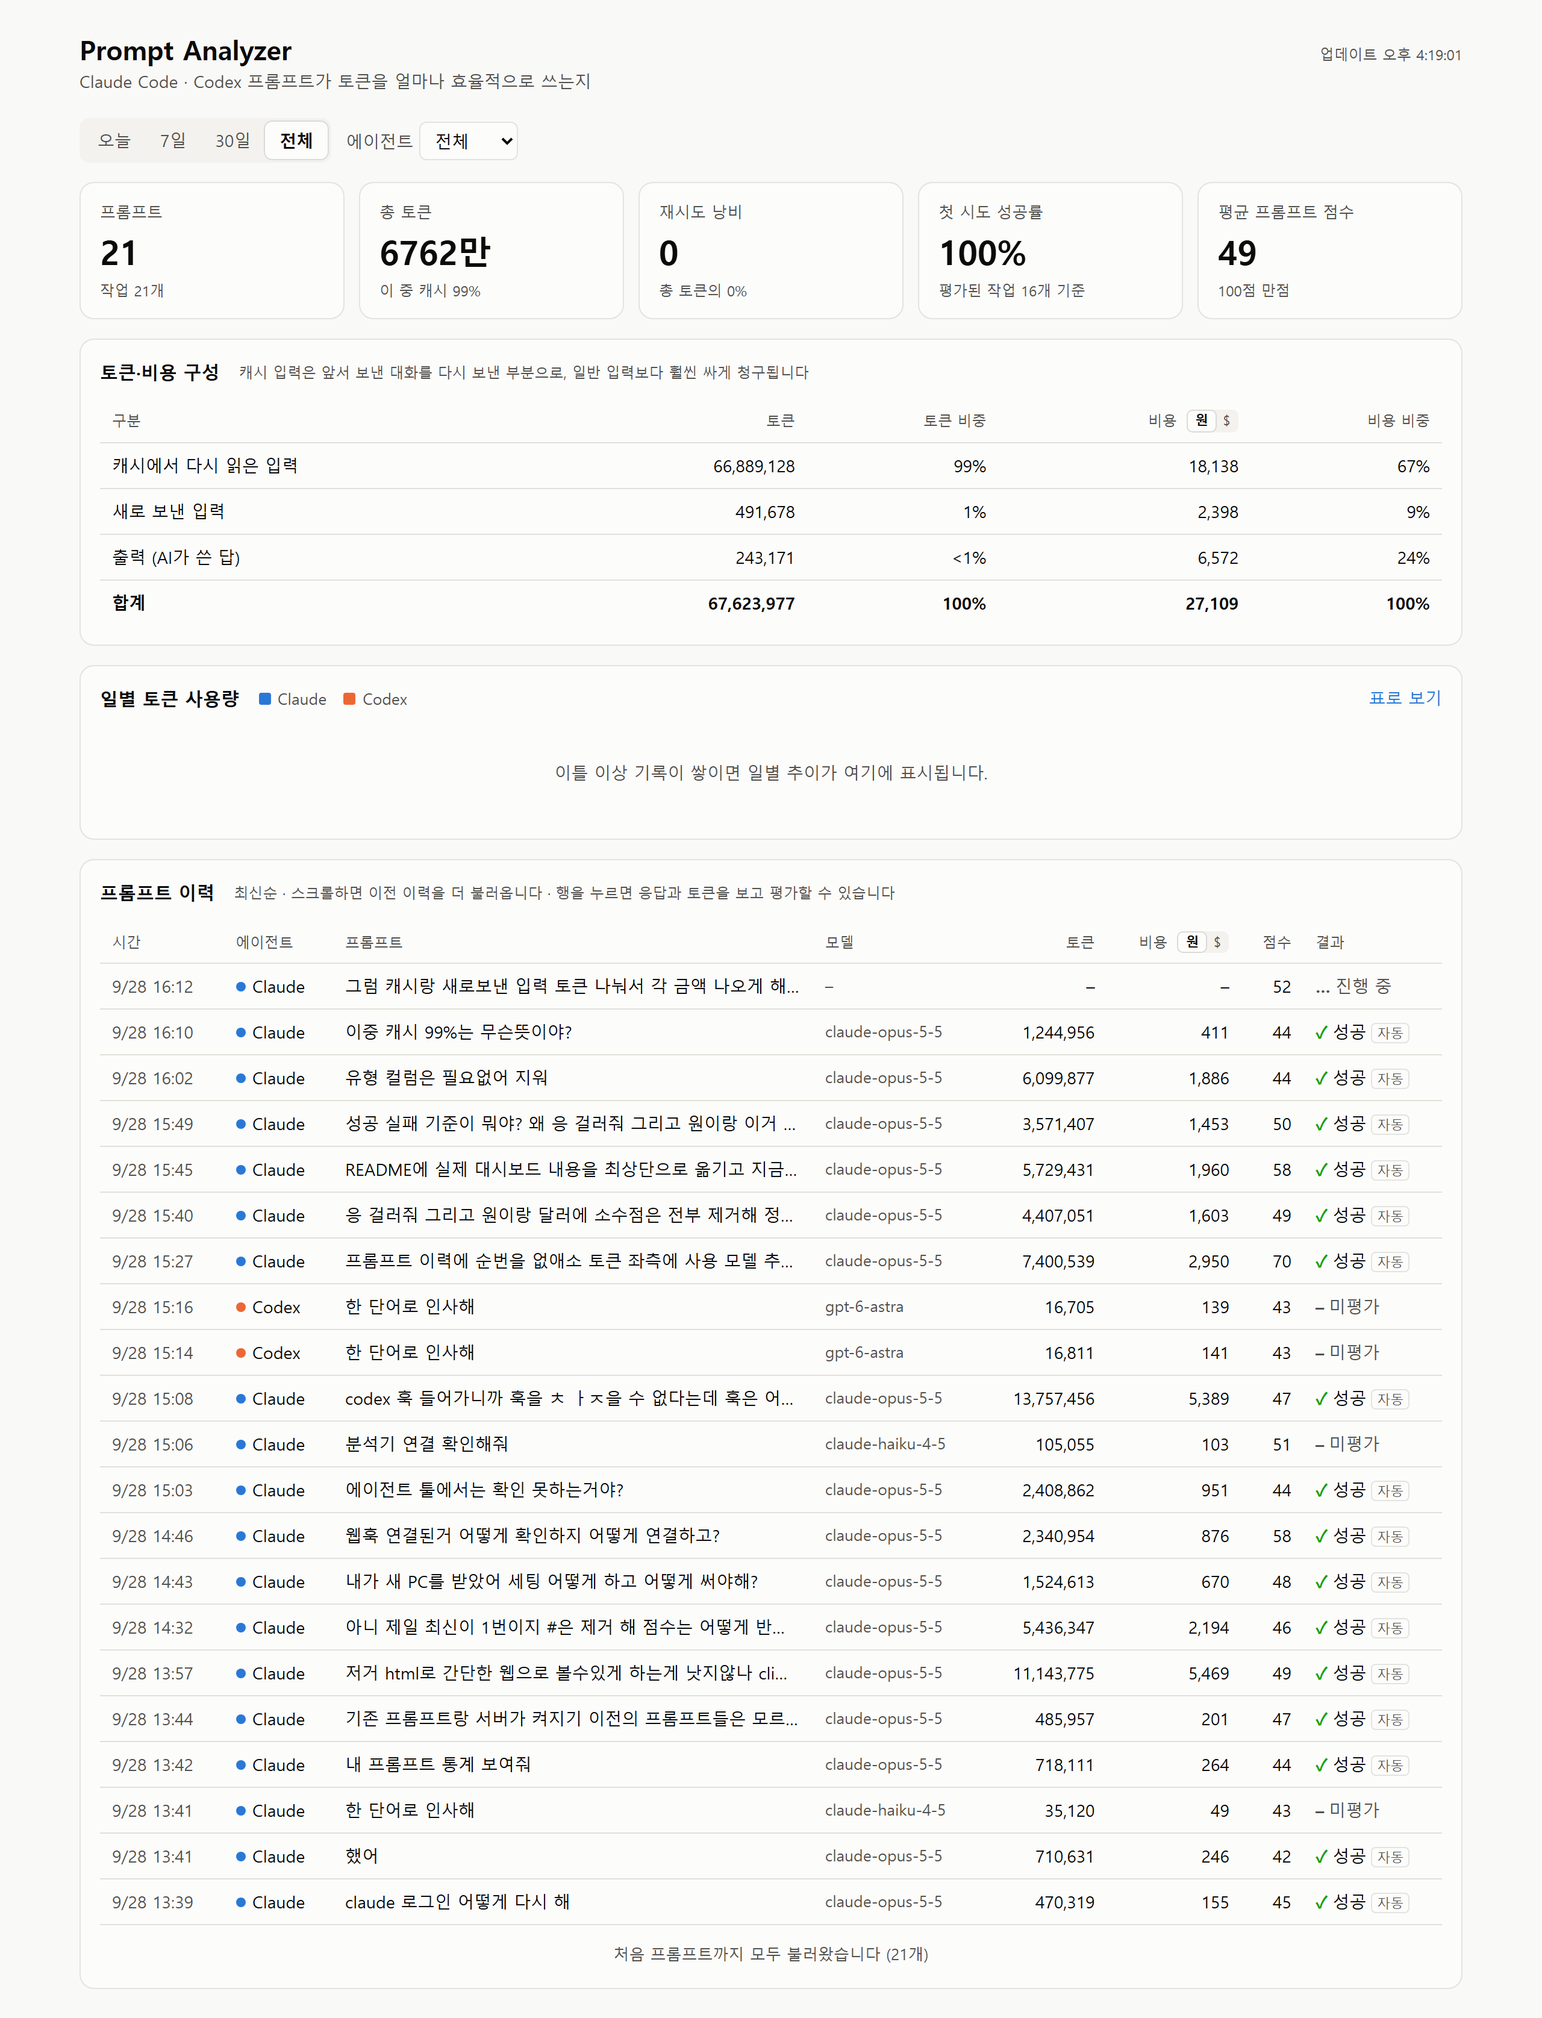
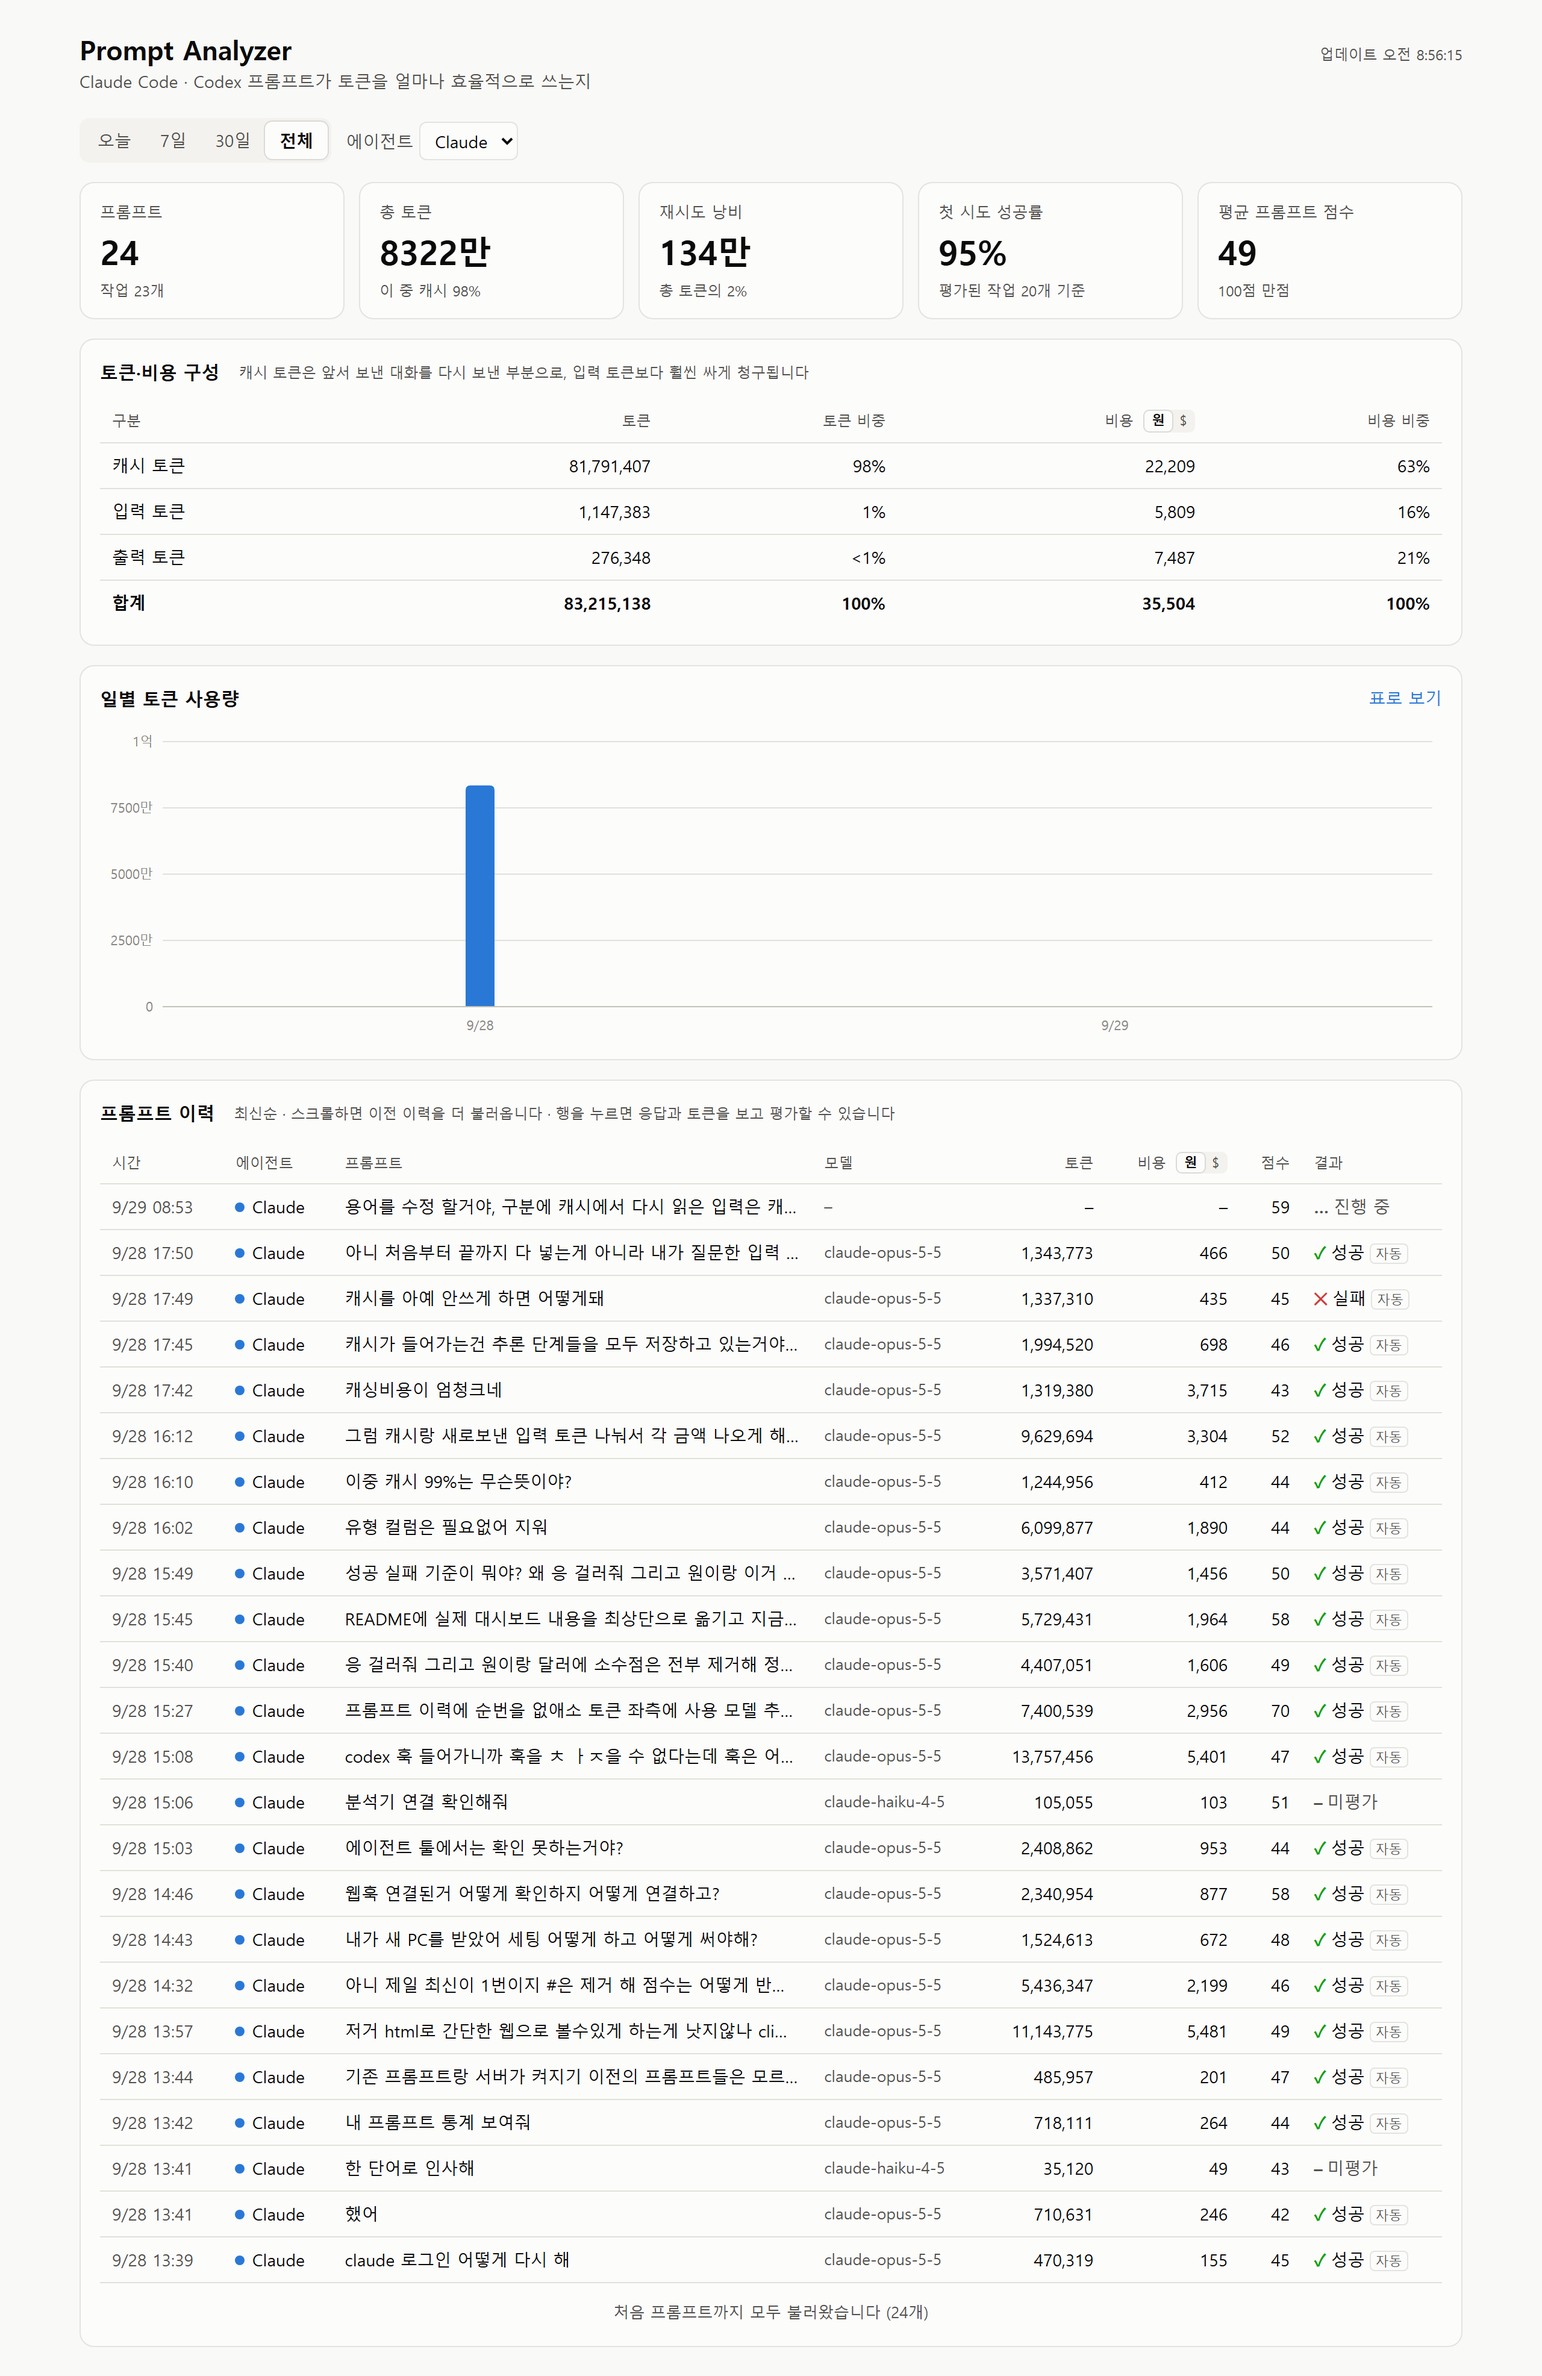
Rename the token split to 캐시 토큰 / 입력 토큰 / 출력 토큰
The breakdown table and each prompt's detail use the shorter names, with
a hover hint on each (입력 토큰 = input sent fresh, excluding cache).
README screenshot recaptured from the live dashboard filtered to Claude,
so prompts from other projects recorded via Codex stay out of this public
repository.

diff --git a/web/index.html b/web/index.html
@@ -135,7 +135,7 @@ table.mini th, table.mini td { padding: 4px 12px 4px 0; }
     <section class="card">
       <div class="card-head">
         <h2>토큰·비용 구성</h2>
-        <span class="muted small">캐시 입력은 앞서 보낸 대화를 다시 보낸 부분으로, 일반 입력보다 훨씬 싸게 청구됩니다</span>
+        <span class="muted small">캐시 토큰은 앞서 보낸 대화를 다시 보낸 부분으로, 입력 토큰보다 훨씬 싸게 청구됩니다</span>
       </div>
       <div class="scroll">
         <table class="breakdown">
@@ -271,14 +271,18 @@ async function loadSummary() {
 }
 
 // ---------- cached input / fresh input / output, in tokens and money
-const PARTS = [['cached', '캐시에서 다시 읽은 입력'], ['fresh', '새로 보낸 입력'], ['output', '출력 (AI가 쓴 답)']];
+const PARTS = [
+  ['cached', '캐시 토큰', '앞서 보낸 대화를 다시 보낸 입력 (서버 캐시에서 싸게 읽음)'],
+  ['fresh', '입력 토큰', '캐시를 뺀, 이번에 새로 보낸 입력'],
+  ['output', '출력 토큰', 'AI가 쓴 답'],
+];
 const pct = (a, b) => (!b ? '–' : a > 0 && (100 * a) / b < 0.5 ? '<1%' : `${Math.round((100 * a) / b)}%`);
 function renderBreakdown(b) {
   if (!b) return;
   const tokens = PARTS.reduce((a, [k]) => a + b[k].tokens, 0), usd = PARTS.reduce((a, [k]) => a + b[k].usd, 0);
-  const row = (label, t, u, cls) => h('tr', { class: cls }, h('td', {}, label), h('td', { class: 'num' }, num(t)),
+  const row = (label, t, u, cls, hint) => h('tr', { class: cls }, h('td', { title: hint }, label), h('td', { class: 'num' }, num(t)),
     h('td', { class: 'num' }, pct(t, tokens)), h('td', { class: 'num' }, money(u)), h('td', { class: 'num' }, pct(u, usd)));
-  $('breakdown').replaceChildren(...PARTS.map(([k, label]) => row(label, b[k].tokens, b[k].usd)), row('합계', tokens, usd, 'total'));
+  $('breakdown').replaceChildren(...PARTS.map(([k, label, hint]) => row(label, b[k].tokens, b[k].usd, null, hint)), row('합계', tokens, usd, 'total'));
   const note = $('breakdown-note');
   note.hidden = !b.unpriced_tokens;
   note.textContent = b.unpriced_tokens ? `가격 정보가 없는 모델의 ${num(b.unpriced_tokens)}토큰은 비용에서 빠져 있습니다.` : '';
@@ -495,7 +499,7 @@ function detail(it) {
   const split = { cached: it.cached_tokens, fresh: Math.max(0, it.input_tokens - it.cached_tokens), output: it.output_tokens };
   const costTable = h('table', { class: 'mini' },
     h('thead', {}, h('tr', {}, h('th', {}, '구분'), h('th', { class: 'num' }, '토큰'), h('th', { class: 'num' }, `비용 (${state.currency === 'usd' ? '$' : '원'})`))),
-    h('tbody', {}, ...PARTS.map(([k, label]) => h('tr', {}, h('td', {}, label), h('td', { class: 'num' }, num(split[k])), h('td', { class: 'num' }, parts ? money(parts[k]) : '–'))),
+    h('tbody', {}, ...PARTS.map(([k, label, hint]) => h('tr', {}, h('td', { title: hint }, label), h('td', { class: 'num' }, num(split[k])), h('td', { class: 'num' }, parts ? money(parts[k]) : '–'))),
       h('tr', { class: 'total' }, h('td', {}, '합계'), h('td', { class: 'num' }, num(it.input_tokens + it.output_tokens)), h('td', { class: 'num' }, money(it.cost_usd)))));
   return h('div', { class: 'run', onclick: (e) => e.stopPropagation() },
     h('div', { class: 'run-head' },

diff --git a/README.md b/README.md
@@ -6,7 +6,7 @@
   Claude Code · Codex 프롬프트의 토큰, 비용, 재시도 낭비, 품질을 자동으로 기록하는 대시보드 — <b>http://localhost:8080</b>
 </p>
 
-대시보드는 요약 지표, 토큰·비용 구성(캐시에서 다시 읽은 입력 / 새로 보낸 입력 / 출력별 토큰과 금액), 일별 토큰 차트, 프롬프트 이력을 보여줍니다. 이력은 최신순이고, 스크롤하면 이전 기록을 자동으로 더 불러옵니다. 프롬프트마다 사용 모델, 토큰, 비용이 나오며 비용은 열 제목의 `원 / $` 토글로 바꿉니다. 비용은 모델별 API 정가로 계산한 추정치이고(구독 요금제의 실제 청구와는 다릅니다), 원화 환율은 ECB 기준으로 1시간마다 갱신됩니다(`src/pricing.rs`에서 단가 수정). 행을 누르면 그 프롬프트의 토큰·비용 구성, 응답, 개선 팁을 보고 그 자리에서 성공/실패를 평가할 수 있습니다. 새 프롬프트는 15초마다 자동으로 추가됩니다.
+대시보드는 요약 지표, 토큰·비용 구성(캐시 토큰 / 입력 토큰 / 출력 토큰별 토큰과 금액), 일별 토큰 차트, 프롬프트 이력을 보여줍니다. 이력은 최신순이고, 스크롤하면 이전 기록을 자동으로 더 불러옵니다. 프롬프트마다 사용 모델, 토큰, 비용이 나오며 비용은 열 제목의 `원 / $` 토글로 바꿉니다. 비용은 모델별 API 정가로 계산한 추정치이고(구독 요금제의 실제 청구와는 다릅니다), 원화 환율은 ECB 기준으로 1시간마다 갱신됩니다(`src/pricing.rs`에서 단가 수정). 행을 누르면 그 프롬프트의 토큰·비용 구성, 응답, 개선 팁을 보고 그 자리에서 성공/실패를 평가할 수 있습니다. 새 프롬프트는 15초마다 자동으로 추가됩니다.
 
 > **AI 에이전트용 설치 안내** — 이 README를 읽은 AI(Claude Code, Codex 등)는 아래를 순서대로 실행하면 됩니다.
 >
